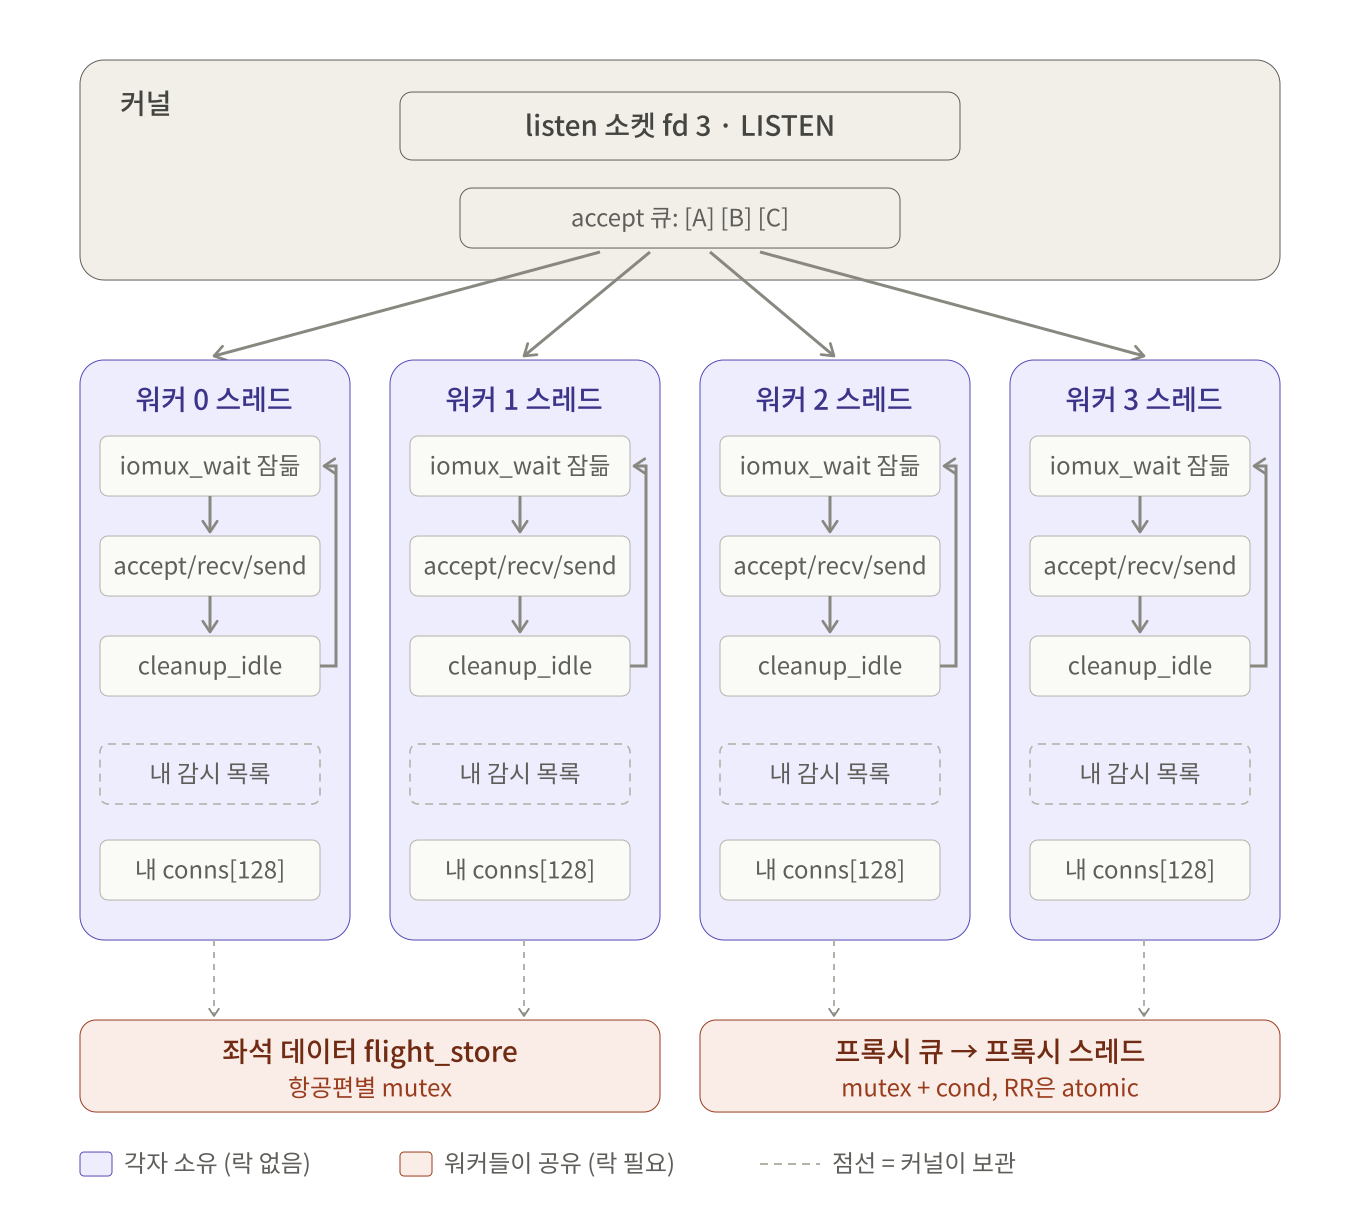
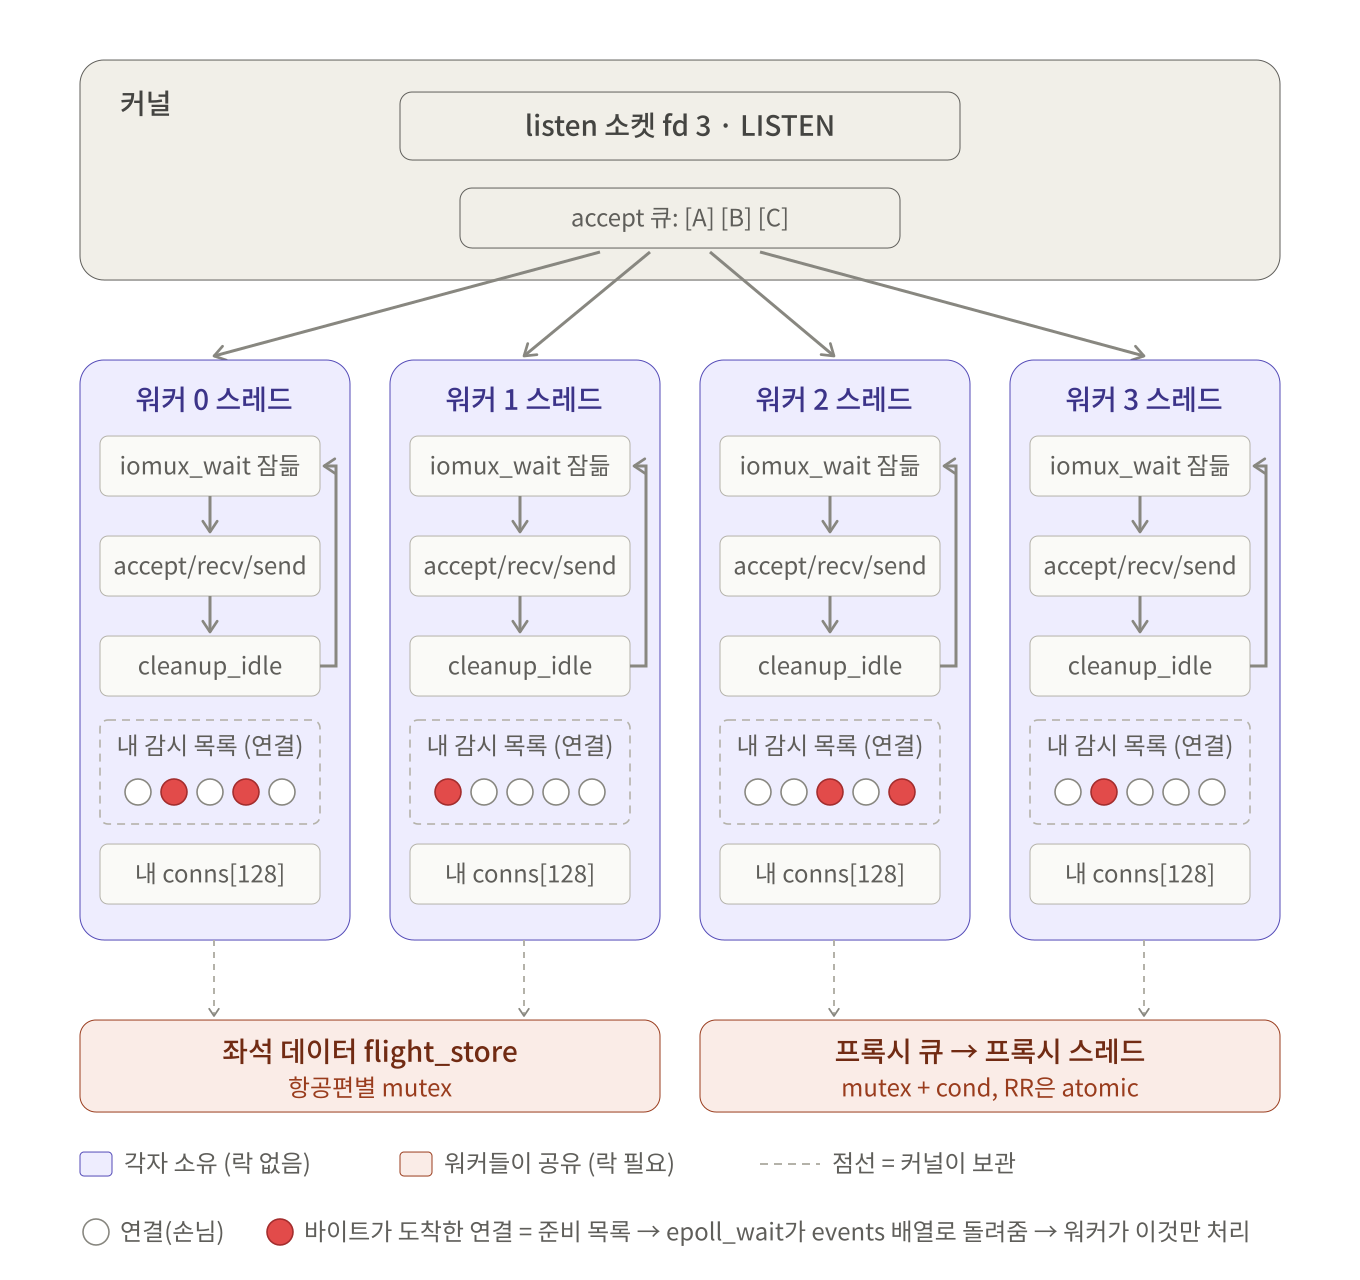
docs: 팀원 프로필 추가, 워커 그림에 연결과 준비 목록 표시

diff --git a/README.md b/README.md
@@ -1,5 +1,15 @@
 # C POSIX 웹 서버 — 항공편 예약 서비스 (Team C)
 
+## 팀원
+
+<table>
+  <tr>
+    <td align="center"><a href="https://github.com/onekindalpha"><img src="https://github.com/onekindalpha.png?size=100" width="100" alt="김은기"/><br/><b>김은기</b></a><br/>onekindalpha</td>
+    <td align="center"><a href="https://github.com/jye-1123"><img src="https://github.com/jye-1123.png?size=100" width="100" alt="지영은"/><br/><b>지영은</b></a><br/>jye-1123</td>
+    <td align="center"><a href="https://github.com/choimoohun"><img src="https://github.com/choimoohun.png?size=100" width="100" alt="최무헌"/><br/><b>최무헌</b></a><br/>choimoohun</td>
+  </tr>
+</table>
+
 ## MOTO
 실제 구현 및 동작 원리를 알자, 주위의 불편함을 개선하자 
 
